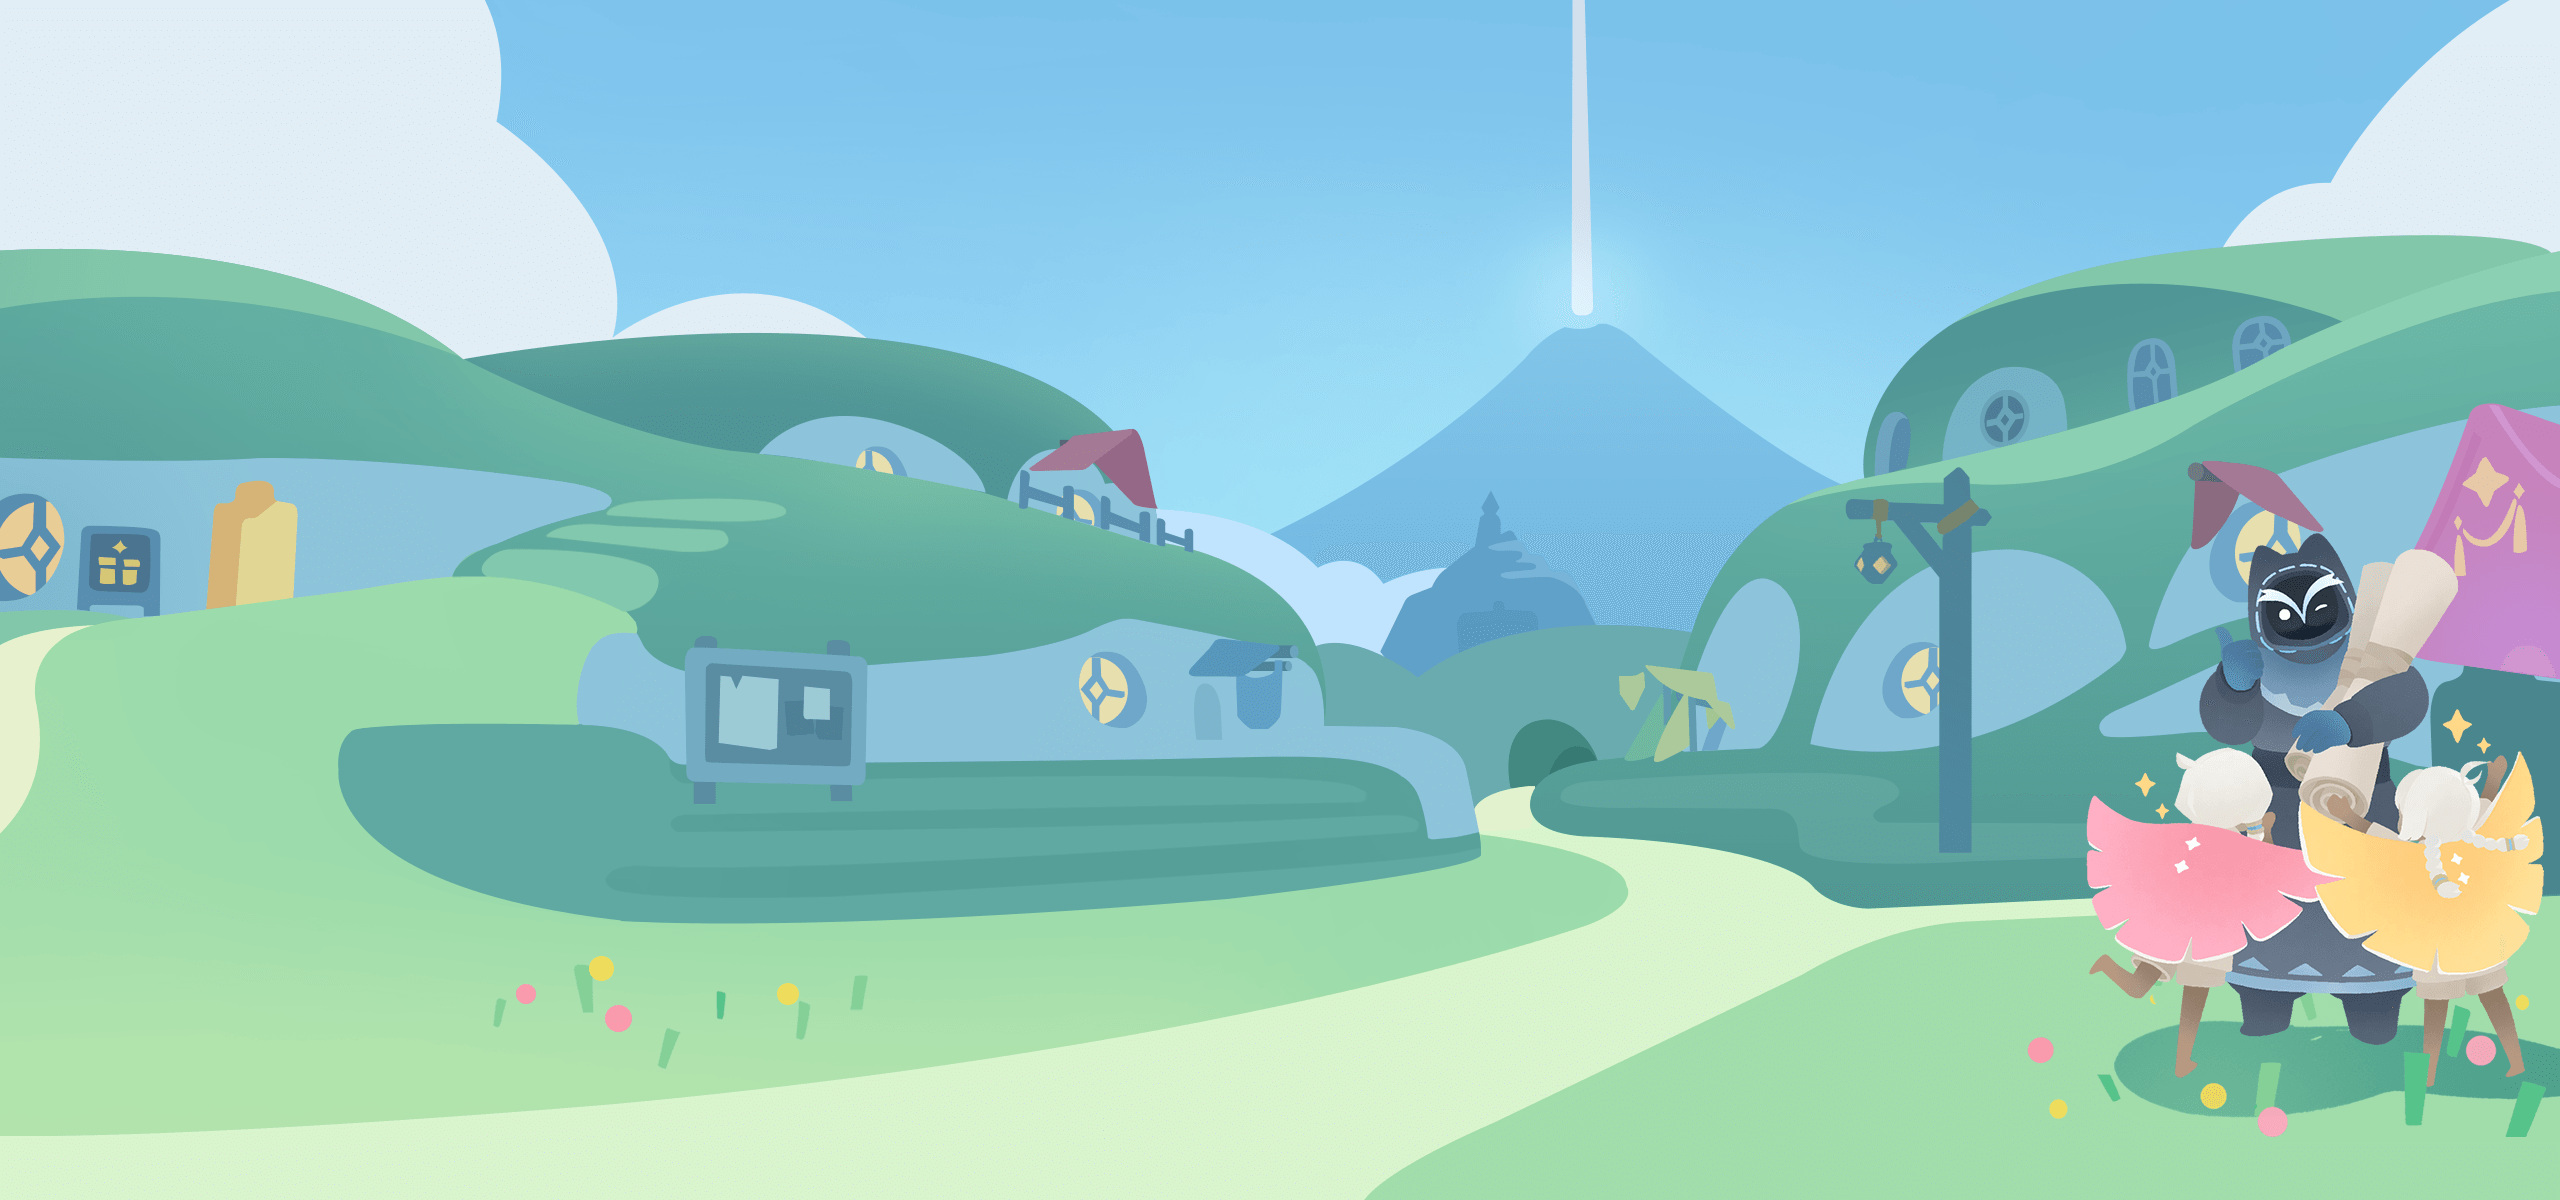
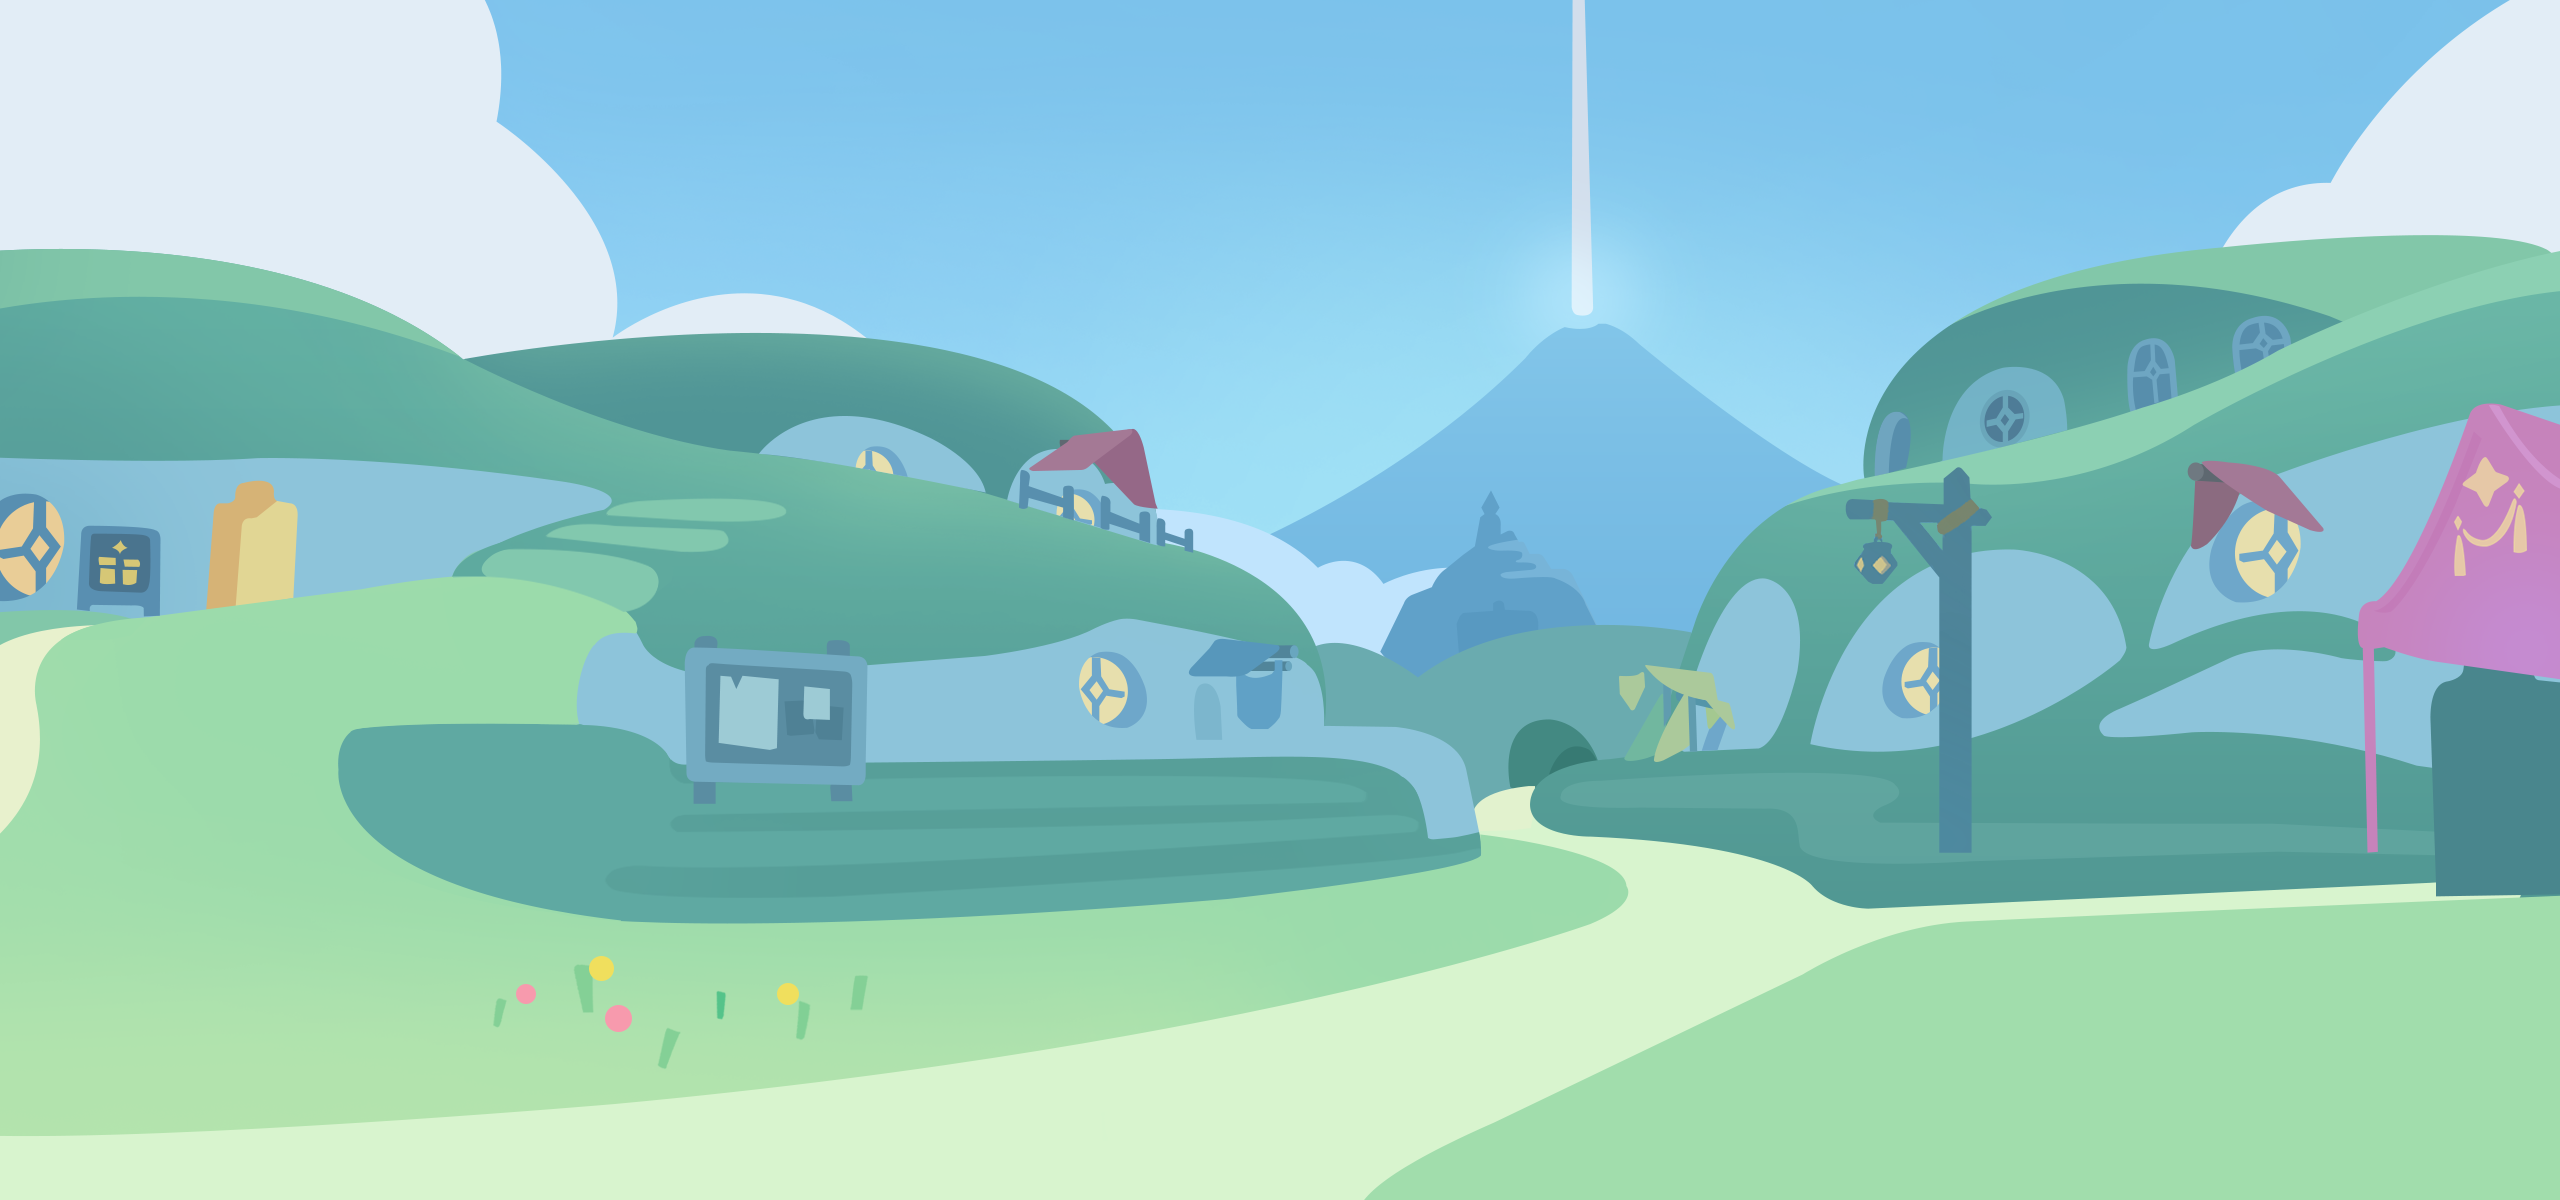
feat: 活动中心绘梦节取票站

Changed region(s): [[0.7812, 0.4317, 1.0, 0.9558]]

diff --git a/src/views/Dayofdesign01Vote1Mission/Dayofdesign01Vote1Mission.vue b/src/views/Dayofdesign01Vote1Mission/Dayofdesign01Vote1Mission.vue
@@ -1,6 +1,6 @@
 <template>
   <Transition appear :name="bodyTransitionName" mode="out-in">
-    <div class="page relative h-screen w-screen bg-cover bg-right">
+    <div class="page relative h-screen w-screen bg-cover bg-center">
       <div class="h-full w-full">
         <Transition appear :name="headTransitionName" mode="out-in">
           <header class="design-header relative">
@@ -23,7 +23,7 @@
           <section>
             <!-- 奖励 -->
             <h2 class="sr-only">奖励</h2>
-            <div class="reward-container">
+            <div class="reward-container flex items-center justify-center">
               <bubble
                 :reward="taskItem"
                 :bubbleScale="2.3"
@@ -38,6 +38,7 @@
                 ></div>
               </bubble>
             </div>
+            <div class="character"></div>
           </section>
         </Transition>
         <!-- 活动规则弹框 -->
@@ -222,7 +223,7 @@ function setRedDot(): void {
 }
 .title {
   position: absolute;
-  left: 280px;
+  left: 120px;
   top: 130px;
   width: 685px;
   height: 163px;
@@ -240,8 +241,25 @@ function setRedDot(): void {
 }
 .reward-container {
   position: absolute;
-  left: 1200px;
-  top: 40%;
+  left: 600px;
+  top: 20%;
+  height: 458px;
+  width: 1485px;
+  background-image: url('@/assets/images/dayofdesign01/dayofdesign01-vote-mission/top-reward-bg.png');
+  background-repeat: no-repeat;
+  background-size: cover;
+  background-position: center;
+}
+.character {
+  position: absolute;
+  width: 557px;
+  height: 605px;
+  bottom: 50px;
+  right: 0;
+  background-image: url('@/assets/images/dayofdesign01/dayofdesign01-vote-mission/character.png');
+  background-repeat: no-repeat;
+  background-size: cover;
+  background-position: center;
 }
 .reward-item {
   width: 208px;
